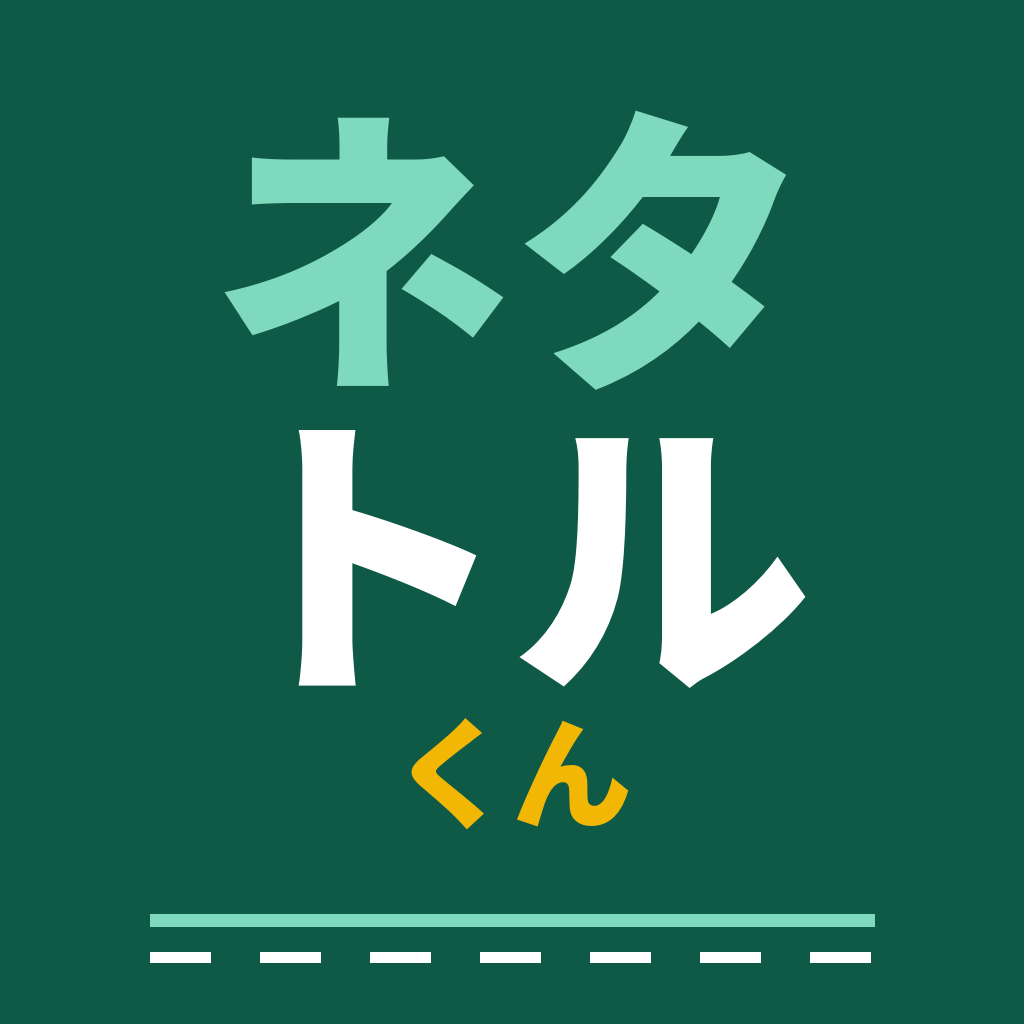
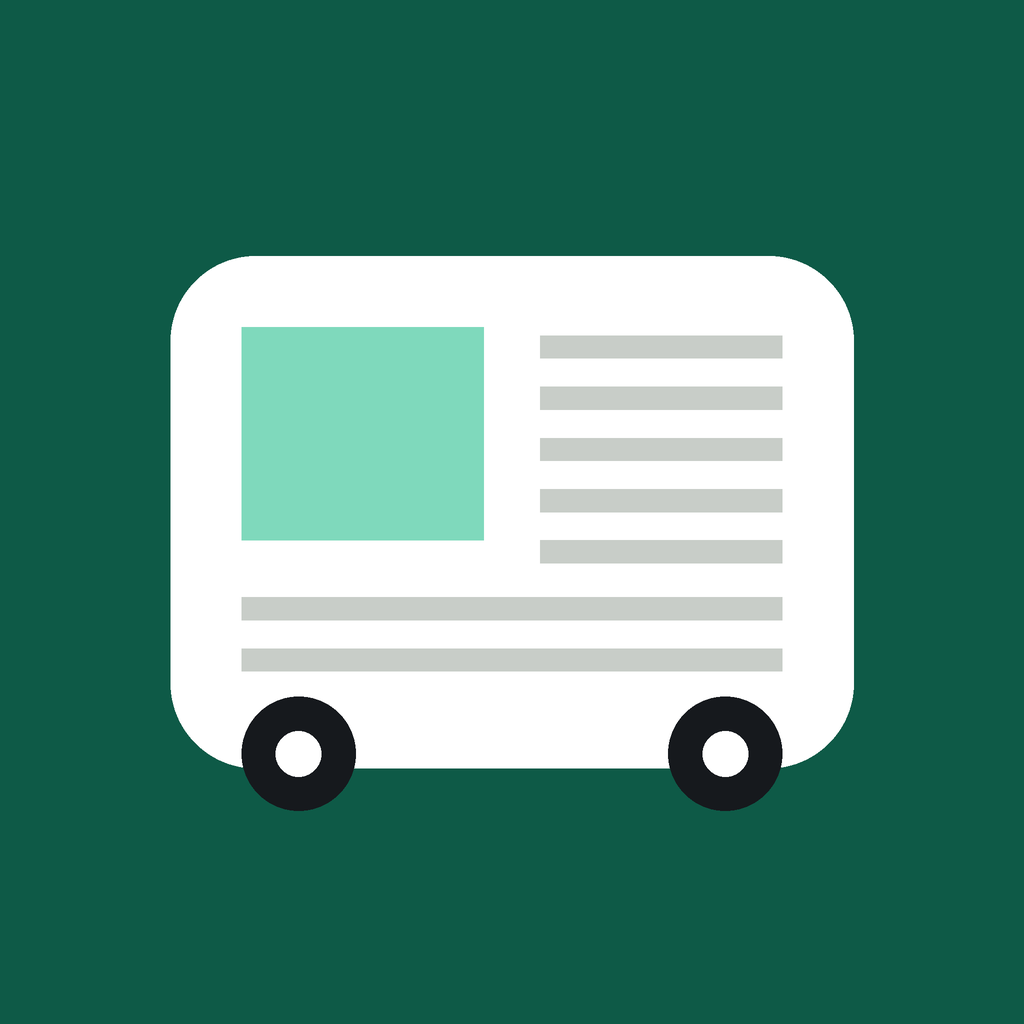
ロゴとアイコンを「新聞でできたバス」に変更
Claude-Session: https://claude.ai/code/session_0197x2DqAWbLKgJ2XfcG9vj7

diff --git a/index.html b/index.html
@@ -44,6 +44,8 @@ header.mast{background:var(--paper);border-bottom:3px solid var(--accent)}
 header.mast .wrap{display:flex;flex-direction:column;gap:18px;padding-block:24px 0}
 .mast-row{display:flex;flex-wrap:wrap;align-items:flex-end;justify-content:space-between;gap:16px}
 .eyebrow{font-size:13px;letter-spacing:.1em;color:var(--accent);font-weight:700}
+.brand{display:flex;align-items:center;gap:14px}
+.brand img{width:clamp(56px,11vw,72px);height:auto;flex:none}
 .logo{margin:0;display:flex;flex-wrap:wrap;align-items:baseline;gap:4px 12px;line-height:1.1}
 .logo .en{font-family:"Zen Maru Gothic","Hiragino Maru Gothic ProN","BIZ UDPGothic",sans-serif;font-weight:900;font-size:clamp(36px,7vw,52px);letter-spacing:.02em;color:var(--ink);white-space:nowrap}
 .logo .en i{font-style:normal;color:var(--accent)}
@@ -121,7 +123,7 @@ footer .wrap{display:flex;flex-wrap:wrap;justify-content:space-between;gap:10px;
   <div class="mast-row">
     <div style="display:flex;flex-direction:column;gap:4px">
       <span class="eyebrow">貸切バス・旅行業界のニュースをひとまとめに</span>
-      <h1 class="logo"><span class="en"><i>ネタ</i>トルくん</span><span class="ja">NETATORU-KUN</span></h1>
+      <div class="brand"><img src="icons/logo-mark.png" alt="" width="72" height="72"><h1 class="logo"><span class="en"><i>ネタ</i>トルくん</span><span class="ja">NETATORU-KUN</span></h1></div>
     </div>
     <div class="reload-wrap">
       <button id="reloadBtn" class="reload" type="button"><svg id="reloadIcon" viewBox="0 0 24 24" fill="none" stroke="currentColor" stroke-width="2.6" stroke-linecap="round" stroke-linejoin="round" aria-hidden="true"><path d="M21 12a9 9 0 1 1-2.64-6.36"/><path d="M21 3v6h-6"/></svg><span>最新に更新</span></button>
@@ -168,7 +170,7 @@ footer .wrap{display:flex;flex-wrap:wrap;justify-content:space-between;gap:10px;
 
 <script>
 (function(){
-  var APP_VERSION = "2026-10-07-0010";
+  var APP_VERSION = "2026-10-07-0015";
   var CAT_COLOR = {"事故":"--c-acc","貸切バス":"--c-bus","交通・道路":"--c-road","行政・制度":"--c-gov","旅行・観光":"--c-travel","インバウンド":"--c-inb","統計":"--c-stat"};
   var CAT_ORDER = ["事故","貸切バス","交通・道路","行政・制度","旅行・観光","インバウンド","統計"];
   var state = { region:"national", filter:"all", data:null, unreadOnly:false, q:"" };
